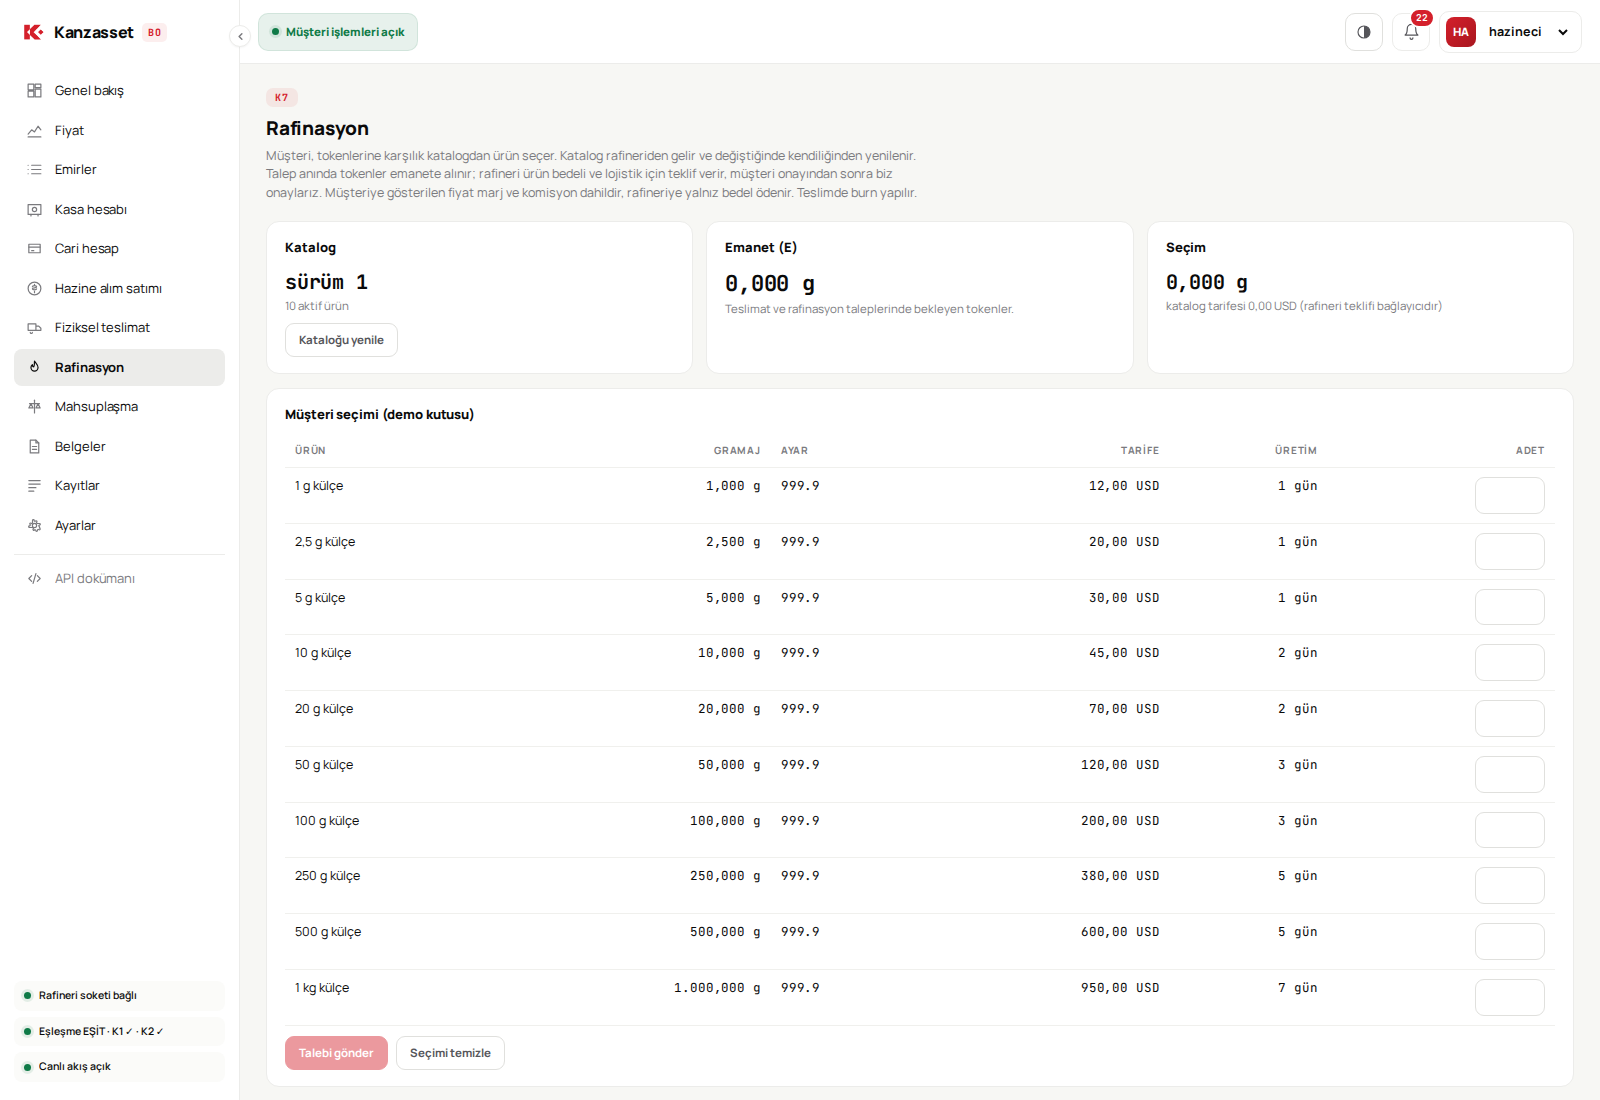
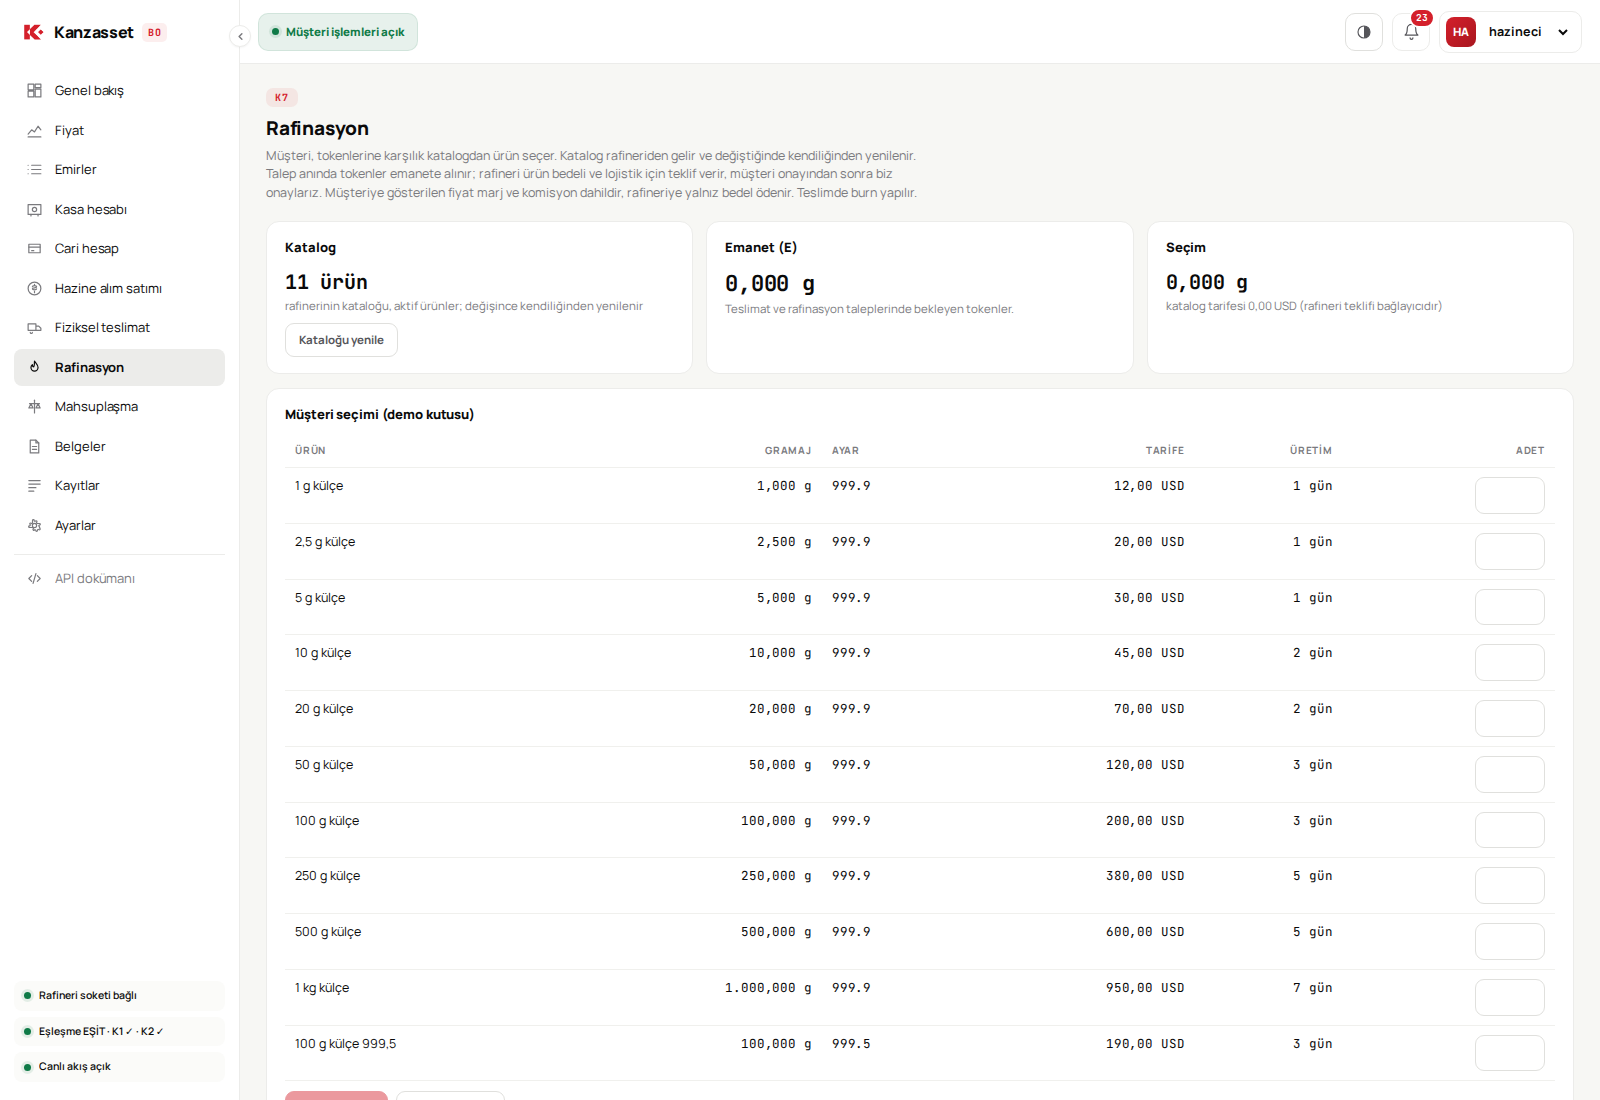
Cari hesapta hareketler, uzun listeler sayfalı
Cari hesap (K5): rafinerideki R5 ile aynı olsun diye hareket listesi
eklendi (10 satır, sayfalı).

Ayarlar (K11): denetim günlüğü ve istek günlüğü 20 satır ve sayfalı.
Kayıtlar (K10): varsayılan sayfa boyu 20.
Geniş tablolar kart içinde yatay kayar, dar pencerede sayfa taşmaz.

Katalog rafineride elle yönetilir: eklenen ya da silinen ürün
catalog.updated ile buraya düşer, K7 listesi kendiliğinden yenilenir.

Claude-Session: https://claude.ai/code/session_01FHsuXnfTh4Mk49Rpn4YzXE

diff --git a/apps/kz-web/src/pages/K11Settings.tsx b/apps/kz-web/src/pages/K11Settings.tsx
@@ -1,4 +1,5 @@
 import { useEffect, useState } from "react";
+import { Pager, usePager } from "../components/Pager.tsx";
 import { api, currentUser, needsApproval, type ApprovalRequest, type AuditEntry, type RequestLogRow, type RequestSummary, type StockParams, type useLive } from "../api.ts";
 
 type Live = ReturnType<typeof useLive>;
@@ -45,6 +46,9 @@ export function K11Settings({ live }: { live: Live }) {
    * Kritik değişiklik iki adımdır. İlk çağrı sunucuda onay isteği açar (202);
    * ikinci çağrı onay numarası ve onaylayanla gelir ve değişiklik o zaman uygulanır.
    */
+  const pReqs = usePager(reqs, 20, `${reqQ.direction}|${reqQ.errors}`);
+  const pLog = usePager(log, 20);
+
   const ask = async (what: string, call: (a: { approval_id?: number; approver?: string }) => Promise<unknown>) => {
     try {
       const r = await call({});
@@ -89,7 +93,7 @@ export function K11Settings({ live }: { live: Live }) {
             <input value={approver} onChange={(e) => setApprover(e.target.value)} />
             <span className="small">aktif kullanıcı: <b>{currentUser.name}</b> (üst şeritten değişir)</span>
           </div>
-          <table>
+          <table className="wide">
             <thead><tr><th>No</th><th>Ne</th><th>İsteyen</th><th>Zaman</th><th /></tr></thead>
             <tbody>
               {pending.map((a) => (
@@ -237,11 +241,11 @@ export function K11Settings({ live }: { live: Live }) {
           <input className="mono" style={{ width: 80 }} value={String(retention)} onChange={(e) => setRetention(Number(e.target.value) || 0)} />
           <button className="ghost" onClick={() => ask("istek günlüğü saklama parametreleri", (a) => api.logParams({ retentionDays: retention, ...a }))}>Kaydet</button>
         </div>
-        <table>
+        <table className="wide">
           <thead><tr><th>Zaman</th><th>Yön</th><th>İstek</th><th className="num">Sonuç</th><th className="num">Süre</th><th>Kim</th><th>Gövde özeti</th></tr></thead>
           <tbody>
-            {reqs.length === 0 && <tr><td colSpan={7} className="small">Kayıt yok</td></tr>}
-            {reqs.map((r) => (
+            {pReqs.total === 0 && <tr><td colSpan={7} className="small">Kayıt yok</td></tr>}
+            {pReqs.slice.map((r) => (
               <tr key={r.id}>
                 <td className="mono small">{new Date(r.ts).toLocaleString("tr-TR")}</td>
                 <td className="small">{r.direction}</td>
@@ -254,6 +258,7 @@ export function K11Settings({ live }: { live: Live }) {
             ))}
           </tbody>
         </table>
+        <Pager p={pReqs} label="İstek günlüğü" />
       </section>
 
       <div className="grid c2">
@@ -271,19 +276,20 @@ export function K11Settings({ live }: { live: Live }) {
         <section className="card">
           <h2>Denetim günlüğü</h2>
           <p className="small">Sunucuda tutulur, sayfa yenilenince kaybolmaz. Elle yapılan her aksiyon ve her onay adımı buradadır.</p>
-          <table>
+          <table className="wide">
             <thead><tr><th>Zaman</th><th>Kim</th><th>Ne</th></tr></thead>
             <tbody>
-              {log.length === 0 && <tr><td colSpan={3} className="small">Günlük boş</td></tr>}
-              {log.map((l) => (
+              {pLog.total === 0 && <tr><td colSpan={3} className="small">Günlük boş</td></tr>}
+              {pLog.slice.map((l) => (
                 <tr key={l.id}>
                   <td className="mono small">{new Date(l.ts).toLocaleString("tr-TR")}</td>
                   <td className="small">{l.actor}</td>
-                  <td className="small">{l.summary}<div className="mono" style={{ fontSize: 11, opacity: .6 }}>{l.action}</div></td>
+                  <td><div className="small" style={{ maxWidth: 420 }}>{l.summary}</div><div className="mono" style={{ fontSize: 11, opacity: .6 }}>{l.action}</div></td>
                 </tr>
               ))}
             </tbody>
           </table>
+          <Pager p={pLog} label="Denetim günlüğü" />
         </section>
       </div>
     </div>

diff --git a/apps/kz-web/src/pages/K5Accounts.tsx b/apps/kz-web/src/pages/K5Accounts.tsx
@@ -1,5 +1,6 @@
-import { useState } from "react";
-import { api, FIELD_TR, fmtDT, fmtG, fmtMoney, needsApproval, type useLive } from "../api.ts";
+import { useEffect, useState } from "react";
+import { api, FIELD_TR, fmtDT, fmtG, fmtMoney, MOVE_TR, needsApproval, type KzMovement, type useLive } from "../api.ts";
+import { Pager, usePager } from "../components/Pager.tsx";
 import { ApprovalBox } from "../components/ApprovalBox.tsx";
 
 type Live = ReturnType<typeof useLive>;
@@ -17,6 +18,9 @@ export function K5Accounts({ live }: { live: Live }) {
   const [busy, setBusy] = useState(false);
   const [msg, setMsg] = useState("");
   const [explanation, setExplanation] = useState("");
+  /** Hareketler rafinerinin cari hesap ekstresinden gelir: rafineri ekranıyla aynı liste. */
+  const [movements, setMovements] = useState<KzMovement[]>([]);
+  useEffect(() => { api.recordStatement().then((st) => setMovements(st.movements ?? [])).catch(() => setMovements([])); }, [live.version]);
   /** Uyuşmazlık düzeltmesi kritik aksiyondur: sunucu önce onay ister, uygulamaz. */
   const [pending, setPending] = useState<{ id: number; requestedBy: string } | null>(null);
   const run = async (fn: () => Promise<string>) => { setBusy(true); setMsg(""); try { setMsg(await fn()); await live.refresh(); } catch (e) { setMsg(`Hata: ${(e as Error).message}`); } finally { setBusy(false); } };
@@ -24,6 +28,7 @@ export function K5Accounts({ live }: { live: Live }) {
   const last = r?.lastAccount;
   const money = (list: { ccy: string; cents: number }[] | undefined, ccy: string) => list?.find((m) => m.ccy === ccy)?.cents ?? 0;
   const v = r ? r.vault.in_vault_mg + r.vault.placing_mg + r.vault.shipping_mg : 0;
+  const pMov = usePager(movements, 10);
 
   return (
     <div>
@@ -122,6 +127,29 @@ export function K5Accounts({ live }: { live: Live }) {
               onDone={async (m) => { setPending(null); setExplanation(""); setMsg(m); await live.refresh(); }} />
           </div>
         )}
+      </section>
+
+      <section className="card" style={{ marginBottom: 14 }}>
+        <div className="row" style={{ alignItems: "baseline" }}>
+          <h2 style={{ margin: 0 }}>Hareketler</h2>
+          <span className="small">rafinerinin cari hesap ekstresinden; rafineri ekranındaki listenin aynısıdır</span>
+        </div>
+        <table className="wide">
+          <thead><tr><th className="num">Sıra</th><th>Zaman</th><th>Tür</th><th className="num">Altın (g)</th><th>Kur</th><th className="num">Para</th><th>Referans</th></tr></thead>
+          <tbody>
+            {movements.length === 0 && <tr><td colSpan={7} className="small">Hareket yok</td></tr>}
+            {pMov.slice.map((m) => (
+              <tr key={m.id}>
+                <td className="num">{m.seq}</td><td className="mono">{fmtDT(m.ts)}</td><td>{MOVE_TR[m.type] ?? m.type}</td>
+                <td className="num">{m.gold_mg ? `${m.gold_mg > 0 ? "+" : ""}${fmtG(m.gold_mg)}` : ""}</td>
+                <td>{m.ccy ?? ""}</td>
+                <td className="num">{m.amount_cents !== undefined && m.amount_cents !== null ? `${m.amount_cents > 0 ? "+" : ""}${fmtMoney(m.amount_cents)}` : ""}</td>
+                <td className="mono small">{m.ref ?? ""}{m.related_id && m.related_id !== m.ref ? ` · ${m.related_id}` : ""}</td>
+              </tr>
+            ))}
+          </tbody>
+        </table>
+        <Pager p={pMov} label="Hareketler" />
       </section>
 
       <div className="grid c2">

diff --git a/apps/kz-web/src/api.ts b/apps/kz-web/src/api.ts
@@ -95,6 +95,7 @@ export interface FulfilmentView {
 }
 /** Sihirbazda girilen tutarlar: verilmeyen bacak tamamıyla kapatılır. */
 export interface RequestedAmounts { gold_mg?: number; money?: { ccy: string; cents: number }[] }
+export interface KzMovement { id: number; seq: number; type: string; gold_mg: number; ccy?: string; amount_cents?: number; ref?: string; related_id?: string; ts: string }
 export interface KzSettlement {
   settlement_id: string; trigger: string; status: string; window_from: string; window_to: string;
   amr_gold_mg?: number; amr_money?: { ccy: string; cents: number }[];
@@ -133,6 +134,7 @@ export interface Doc { meta: { doc_id: string; type: string; related_id: string;
 /** K12: belgenin Kanzasset kopyasının künyesi (içerik ayrı çekilir). */
 export interface DocumentsView { count: number; signature_checked: boolean; last_sync_ts: string | null; auto_sync_minutes: number; items: KzDocumentRow[] }
 export interface KzDocumentRow { doc_id: string; type: string; related_id: string; hash: string; signature: string; created_ts: string; received_ts: string; source: string; hash_ok: boolean; signature_ok: boolean | null }
+export const MOVE_TR: Record<string, string> = { OPENING: "açılış devri", FILL_BUY: "alış (fill)", FILL_SELL: "satış (fill)", VAULT_IN: "kasa girişi", VAULT_OUT: "kasa çıkışı", FEE_DELIVERY: "lojistik bedeli", FEE_REFINING: "rafinasyon bedeli", SETTLEMENT_PAYMENT: "mahsuplaşma ödemesi" };
 export const DOC_TYPE_TR: Record<string, string> = { ALLOCATION_CERTIFICATE: "Tahsis Belgesi", VAULT_IN_SLIP: "Kasa Giriş Fişi", VAULT_OUT_SLIP: "Kasa Çıkış Fişi", LOGISTICS_QUOTE: "Lojistik Teklifi", REFINING_QUOTE: "Rafinasyon Teklifi", SHIPPING_SLIP: "Sevkiyat Fişi", DELIVERY_RECORD: "Teslimat Kaydı", VAULT_STATEMENT: "Günlük Kasa Ekstresi", CURRENT_ACCOUNT_STATEMENT: "Cari Hesap Ekstresi", SETTLEMENT_STATEMENT: "Mahsuplaşma Ekstresi" };
 
 /** Kritik uçlarda ikinci onay: ilk istekte boş, onayda numara ve onaylayan. */
@@ -166,6 +168,8 @@ export const api = {
   vaultManual: (type: "IN" | "OUT", qty_mg: number, reason: string) => req<VaultInstruction>("/api/vault", { method: "POST", body: JSON.stringify({ type, qty_mg, reason }) }),
   vaultRetry: (ref: string) => req<VaultInstruction>(`/api/vault/${encodeURIComponent(ref)}/retry`, { method: "POST", body: "{}" }),
   flushMints: () => req<{ ok: boolean; awaiting: number; block: string | null }>("/api/vault/flush-mints", { method: "POST", body: "{}" }),
+  /** Cari hesap ekstresi (rafineriden): hareket listesi, imza. */
+  recordStatement: () => req<{ window_from: string; window_to: string; movements: KzMovement[]; gold_mg: number; money: { ccy: string; cents: number }[]; hash: string; signature: string }>("/api/record/statement"),
   vaultStatement: (date?: string) => req<VaultStatementDoc>(`/api/vault/statement${date ? `?date=${date}` : ""}`),
   // K5 hazine alım satımı
   treasury: () => req<{ items: TreasuryRequest[]; pending: TreasuryRequest[]; stock: StockParams; record: KzRecord }>("/api/treasury"),

diff --git a/apps/kz-web/src/pages/K7Refining.tsx b/apps/kz-web/src/pages/K7Refining.tsx
@@ -44,8 +44,8 @@ export function K7Refining({ live }: { live: Live }) {
       <div className="grid c3" style={{ marginBottom: 14 }}>
         <div className="card">
           <h2>Katalog</h2>
-          <div className="mono" style={{ fontSize: 20, fontWeight: 600 }}>sürüm {cat?.version ?? 0}</div>
-          <div className="small">{cat?.items.filter((i) => i.active).length ?? 0} aktif ürün</div>
+          <div className="mono" style={{ fontSize: 20, fontWeight: 600 }}>{cat?.items.filter((i) => i.active).length ?? 0} ürün</div>
+          <div className="small">rafinerinin kataloğu, aktif ürünler; değişince kendiliğinden yenilenir</div>
           <button className="ghost" style={{ marginTop: 8 }} onClick={() => act("cat", () => api.catalogRefresh(), "Katalog yenilendi.")}>Kataloğu yenile</button>
         </div>
         <div className="card">
@@ -64,7 +64,7 @@ export function K7Refining({ live }: { live: Live }) {
 
       <section className="card" style={{ marginBottom: 14 }}>
         <h2>Müşteri seçimi (demo kutusu)</h2>
-        <table>
+        <table className="wide">
           <thead><tr><th>Ürün</th><th className="num">Gramaj</th><th>Ayar</th><th className="num">Tarife</th><th className="num">Üretim</th><th className="num">Adet</th></tr></thead>
           <tbody>
             {cat?.items.filter((i) => i.active).map((i) => (
@@ -90,7 +90,7 @@ export function K7Refining({ live }: { live: Live }) {
 
       <section className="card">
         <h2>Talepler</h2>
-        <table>
+        <table className="wide">
           <thead><tr><th>Zaman</th><th>Talep</th><th>Kalemler</th><th className="num">Saf gram</th><th>Durum</th><th>Teklif</th><th className="num">Müşteri fiyatı</th><th>Burn</th><th>Belgeler</th><th>Aksiyon</th></tr></thead>
           <tbody>
             {(v?.refinings.length ?? 0) === 0 && <tr><td colSpan={10} className="small">Rafinasyon talebi yok</td></tr>}

diff --git a/apps/kz-web/src/pages/Logs.tsx b/apps/kz-web/src/pages/Logs.tsx
@@ -23,7 +23,7 @@ export function LogsPage({ endpoint, tag, title }: { endpoint: string; tag: stri
   const [q, setQ] = useState("");
   const [range, setRange] = useState({ from: "", to: "" });
   const [page, setPage] = useState(0);
-  const [size, setSize] = useState(50);
+  const [size, setSize] = useState(20);
   const [data, setData] = useState<{ items: LogRow[]; total: number }>({ items: [], total: 0 });
   const [busy, setBusy] = useState(false);
   const [msg, setMsg] = useState("");
@@ -87,7 +87,7 @@ export function LogsPage({ endpoint, tag, title }: { endpoint: string; tag: stri
           <span className="small">{shownFrom}–{shownTo} arası gösteriliyor</span>
           <span style={{ flex: 1 }} />
           <select value={size} onChange={(e) => { setSize(Number(e.target.value)); setPage(0); }}>
-            {[25, 50, 100, 200].map((n) => <option key={n} value={n}>{n} satır</option>)}
+            {[20, 50, 100, 200].map((n) => <option key={n} value={n}>{n} satır</option>)}
           </select>
           <button disabled={busy || page === 0} onClick={() => setPage(0)} title="en yeni">⏮</button>
           <button disabled={busy || page === 0} onClick={() => setPage((p) => p - 1)}>← Yeni</button>
@@ -95,7 +95,7 @@ export function LogsPage({ endpoint, tag, title }: { endpoint: string; tag: stri
           <button disabled={busy || page + 1 >= pages} onClick={() => setPage((p) => p + 1)}>Eski →</button>
           <button disabled={busy || page + 1 >= pages} onClick={() => setPage(pages - 1)} title="en eski">⏭</button>
         </div>
-        <table>
+        <table className="wide">
           <thead><tr><th>Zaman</th><th>Kim</th><th>Ne</th><th>Sonuç</th></tr></thead>
           <tbody>
             {data.items.length === 0 && <tr><td colSpan={4} className="small">Kayıt yok</td></tr>}

diff --git a/apps/kz-web/src/pages/K12Treasury.tsx b/apps/kz-web/src/pages/K12Treasury.tsx
@@ -109,7 +109,7 @@ export function K12Treasury({ live }: { live: Live }) {
           <input placeholder="onaycı adı" value={approver} onChange={(e) => setApprover(e.target.value)} />
           <span className="small">Hazineci kendi talebini onaylayamaz; aynı onaycı iki kez onaylayamaz.</span>
         </div>
-        <table>
+        <table className="wide">
           <thead><tr><th>Zaman</th><th>Talep</th><th>Yön</th><th className="num">Gram</th><th className="num">Talep anı fiyatı</th><th>Onay</th><th>Aksiyon</th></tr></thead>
           <tbody>
             {(data?.pending.length ?? 0) === 0 && <tr><td colSpan={7} className="small">Onay bekleyen talep yok</td></tr>}
@@ -137,7 +137,7 @@ export function K12Treasury({ live }: { live: Live }) {
 
       <section className="card">
         <h2>Talepler</h2>
-        <table>
+        <table className="wide">
           <thead><tr><th>Zaman</th><th>Talep</th><th>Yön</th><th className="num">Gram</th><th>Durum</th><th className="num">Gerçekleşme</th><th>Kasa talimatı</th><th>Hedef K</th><th></th></tr></thead>
           <tbody>
             {(data?.items.length ?? 0) === 0 && <tr><td colSpan={9} className="small">Talep yok</td></tr>}

diff --git a/apps/kz-web/src/pages/K4Vault.tsx b/apps/kz-web/src/pages/K4Vault.tsx
@@ -66,7 +66,7 @@ export function K4Vault({ live }: { live: Live }) {
       {(v?.holds.length ?? 0) > 0 && (
         <section className="card" style={{ marginBottom: 14 }}>
           <h2>Duran talepler</h2>
-          <table>
+          <table className="wide">
             <thead><tr><th>Referans</th><th>Tür</th><th className="num">Gram</th><th>Sebep</th><th>Aksiyon</th></tr></thead>
             <tbody>
               {v?.holds.map((i) => (
@@ -85,7 +85,7 @@ export function K4Vault({ live }: { live: Live }) {
 
       <section className="card" style={{ marginBottom: 14 }}>
         <h2>Talimatlar</h2>
-        <table>
+        <table className="wide">
           <thead><tr><th>Zaman</th><th>Referans</th><th>Tür</th><th className="num">Gram</th><th>Tetik</th><th>Durum</th><th>Fiş</th><th>Mint / burn</th><th></th></tr></thead>
           <tbody>
             {(v?.items.length ?? 0) === 0 && <tr><td colSpan={9} className="small">Talimat yok</td></tr>}

diff --git a/apps/kz-web/src/pages/K3Orders.tsx b/apps/kz-web/src/pages/K3Orders.tsx
@@ -97,7 +97,7 @@ export function K3Orders({ live }: { live: Live }) {
           <button className="ghost" onClick={() => { setPeriod("bugun"); setDay(today()); setSideF(""); setStatusF(""); setSearch(""); }}>Temizle</button>
           <span className="small" style={{ marginLeft: "auto" }}>{list.length} kayıt{list.length !== all.length ? ` (${all.length} içinden)` : ""}</span>
         </div>
-        <table>
+        <table className="wide">
           <thead><tr><th>Zaman</th><th>Müşteri emri no</th><th>Yön</th><th className="num">Gram</th><th>Kur</th><th className="num">Müşteri fiyatı</th><th className="num">Müşteri toplamı</th><th className="num">Gerçekleşme</th><th className="num">Marj</th><th>Akış</th><th>Rafineri</th><th>Müşteri</th><th>Eşleşme</th></tr></thead>
           <tbody>
             {list.length === 0 && <tr><td colSpan={13} className="small">Kayıt yok</td></tr>}

diff --git a/apps/kz-web/src/pages/K9Documents.tsx b/apps/kz-web/src/pages/K9Documents.tsx
@@ -53,7 +53,7 @@ export function K9Documents({ live }: { live: Live }) {
           <input className="wide" placeholder="belge no ya da ilgili kayıt" value={q.text} onChange={(e) => setQ({ ...q, text: e.target.value })} />
           <button className="ghost" onClick={load}>Yenile</button>
         </div>
-        <table>
+        <table className="wide">
           <thead><tr><th>Belge no</th><th>Tip</th><th>İlgili kayıt</th><th>Rafineri tarihi</th><th>Alınma</th><th>Kaynak</th><th>Doğrulama</th><th>Aksiyon</th></tr></thead>
           <tbody>
             {p.slice.length === 0 && <tr><td colSpan={8} className="small">Belge yok. Belgeler olaylarla kendiliğinden gelir; eskileri "Belgeleri eşitle" ile çekebilirsiniz.</td></tr>}

diff --git a/apps/kz-web/src/styles.css b/apps/kz-web/src/styles.css
@@ -153,6 +153,10 @@ button:disabled{opacity:.45;cursor:not-allowed}
 
 /* ---- tablolar ---- */
 table{border-collapse:collapse;width:100%;font-size:12.5px}
+/* çok sütunlu tablolar: hücreler sarmaz, kart içinde yatay kayar (metin sıkışıp okunmaz olmasın) */
+table.wide{width:max-content;min-width:100%}
+table.wide th,table.wide td{white-space:nowrap}
+table.wide td .small{white-space:normal}
 th,td{text-align:left;padding:9px 10px;border-bottom:1px solid var(--line2);vertical-align:top}
 th{font-size:10px;font-weight:700;letter-spacing:.08em;text-transform:uppercase;color:var(--mut);background:transparent}
 tbody tr:hover{background:var(--soft)}

diff --git a/apps/kz-web/src/pages/K6Delivery.tsx b/apps/kz-web/src/pages/K6Delivery.tsx
@@ -86,7 +86,7 @@ export function K6Delivery({ live }: { live: Live }) {
 
       <section className="card">
         <h2>Talepler</h2>
-        <table>
+        <table className="wide">
           <thead><tr><th>Zaman</th><th>Talep</th><th className="num">Gram</th><th>Durum</th><th>Lojistik teklifi</th><th>Takip</th><th>Burn</th><th>Belgeler</th><th>Aksiyon</th></tr></thead>
           <tbody>
             {(v?.deliveries.length ?? 0) === 0 && <tr><td colSpan={9} className="small">Teslimat talebi yok</td></tr>}
